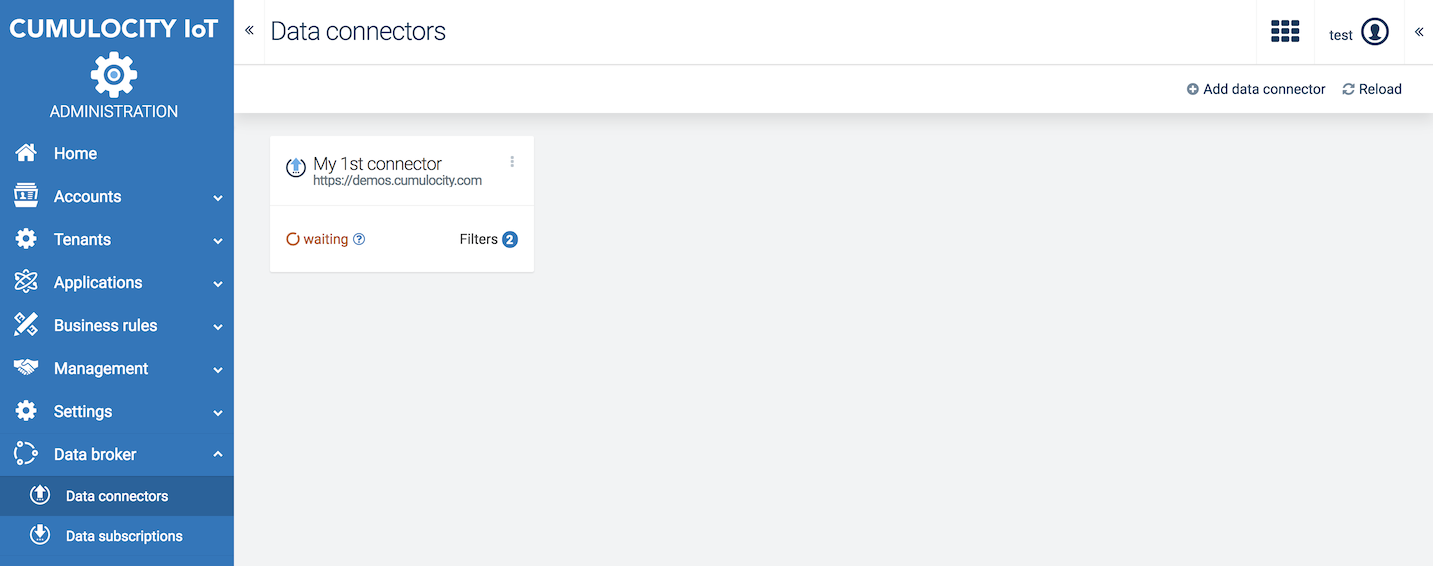
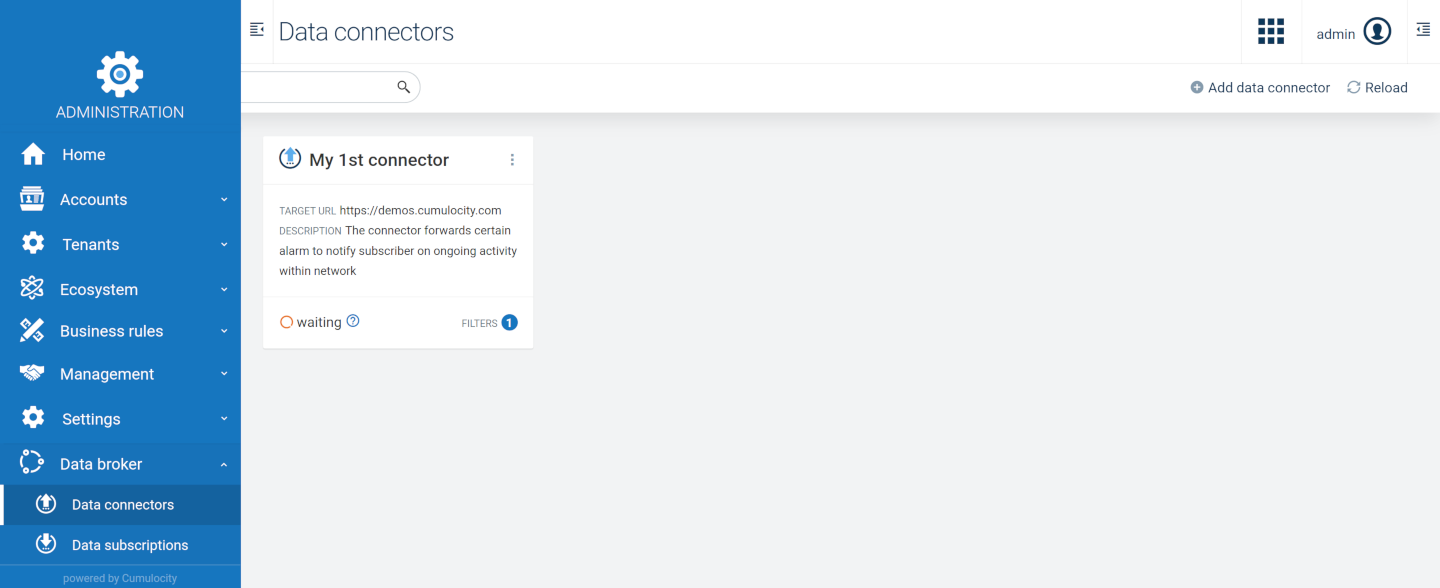
Merge pull request #252 from SoftwareAG/feature/MTM-43485-Review-Data-Broker
MTM-43485 Review Data Broker

Changed region(s): [[0.0, 0.0, 1.0, 1.0], [0.8597, 0.03, 1.0, 0.0901], [0.307, 0.5406, 0.3685, 0.5707]]

diff --git a/content/users-guide/enterprise-tenant-bundle/data-broker.md b/content/users-guide/enterprise-tenant-bundle/data-broker.md
@@ -43,6 +43,7 @@ For each data connector, the following information is provided:
 
 * the data connector's name
 * its destination tenant
+* description if provided, "None" displayed otherwise
 * the status of the connector
 * the number of filters set for the data connector
 
@@ -138,7 +139,7 @@ After saving the configuration, you will see a security code displayed below you
 
 #### To edit a data connector
 
-Click the menu icon at the right of a data connector entry and then click **Edit**.
+Click the connector title, or click the menu icon at the right of a data connector entry and then click **Edit**.
 
 In the **Settings** tab, edit the data connector configuration.
 
